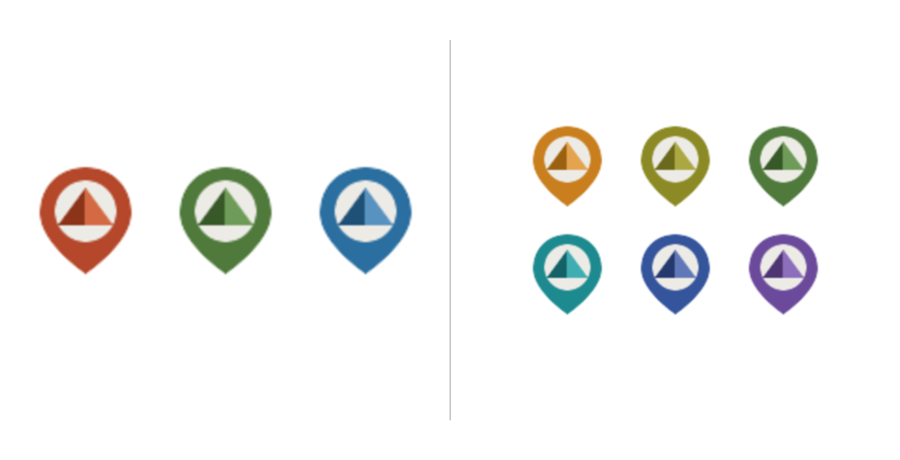
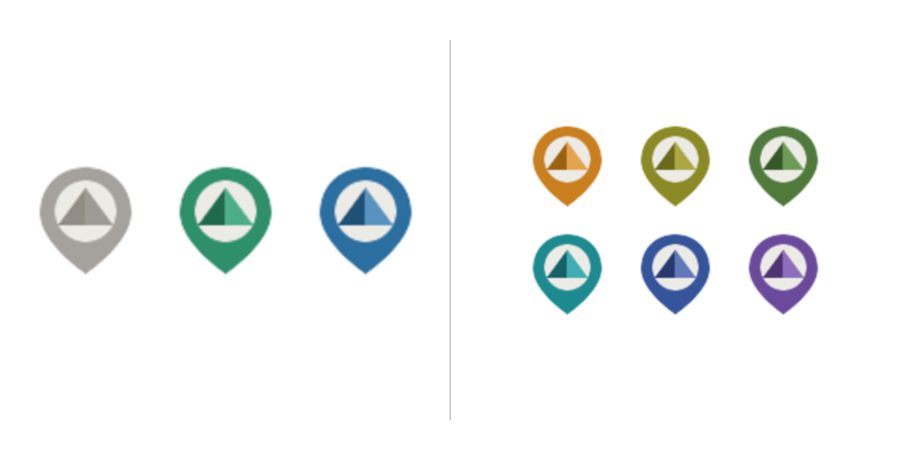
updated to have regions be default.

Changed region(s): [[0.0311, 0.3652, 0.1556, 0.6087], [0.1867, 0.3652, 0.3111, 0.6087]]

diff --git a/lib/widgets/popup_widgets/app_whats_new_dialog.dart b/lib/widgets/popup_widgets/app_whats_new_dialog.dart
@@ -1,4 +1,5 @@
 import 'package:flutter/material.dart';
+import 'package:two_eight_two/analytics/analytics.dart';
 import 'package:two_eight_two/extensions/extensions.dart';
 import 'package:two_eight_two/screens/settings/screens/screens.dart';
 import 'package:two_eight_two/widgets/widgets.dart';
@@ -39,7 +40,7 @@ class WhatsNewDialog extends StatelessWidget {
             const SizedBox(height: 20),
             // TODO: Update content each release
             Text(
-              'Simpler map pins',
+              'New: Classic map pins',
               style: Theme.of(context)
                   .textTheme
                   .titleMedium
@@ -47,8 +48,8 @@ class WhatsNewDialog extends StatelessWidget {
             ),
             const SizedBox(height: 8),
             Text(
-              "Munro pins now default to Classic: simple red, green and blue for at-a-glance progress. "
-              "Prefer the old multicoloured-by-region pins? Switch back any time in Settings → Map Style.",
+              "Prefer a simpler look? You can now switch to Classic pins: simple red, green and blue for "
+              "at-a-glance progress, instead of a colour per region. Find it any time in Settings → Map Style.",
               style: Theme.of(context).textTheme.bodyMedium,
             ),
             const SizedBox(height: 16),
@@ -69,14 +70,14 @@ class WhatsNewDialog extends StatelessWidget {
             ),
             const SizedBox(height: 24),
             PrimaryButton(
-              onPressed: () => Navigator.of(context).pop(),
+              onPressed: () => Navigator.of(context).pop(AnalyticsResponse.dismiss),
               child: const Text('Got it'),
             ),
             const SizedBox(height: 12),
             SecondaryButton(
               onPressed: () {
                 final navigator = Navigator.of(context);
-                navigator.pop();
+                navigator.pop(AnalyticsResponse.openSettings);
                 navigator.pushNamed(MapStyleSettingsScreen.route);
               },
               child: const Text('Open Settings'),

diff --git a/lib/screens/settings/screens/map_style_settings_screen.dart b/lib/screens/settings/screens/map_style_settings_screen.dart
@@ -35,17 +35,17 @@ class MapStyleSettingsScreen extends StatelessWidget {
               child: Column(
                 children: [
                   OptionListTile(
-                    title: 'Classic',
-                    subtitle: 'Simple red, green and blue pins for at-a-glance progress.',
-                    value: MapStyleOption.classic,
+                    title: 'Regions',
+                    subtitle: "Each of Scotland's munro regions gets its own colour.",
+                    value: MapStyleOption.regions,
                     groupValue: settingsState.mapStyleSetting,
                     onChanged: (value) => settingsState.setMapStyle(value),
                   ),
                   Divider(indent: 15, endIndent: 15),
                   OptionListTile(
-                    title: 'Regions',
-                    subtitle: "Each of Scotland's munro regions gets its own colour.",
-                    value: MapStyleOption.regions,
+                    title: 'Classic',
+                    subtitle: 'Simple red, green and blue pins for at-a-glance progress.',
+                    value: MapStyleOption.classic,
                     groupValue: settingsState.mapStyleSetting,
                     onChanged: (value) => settingsState.setMapStyle(value),
                   ),

diff --git a/lib/overlay_intent_coordinator.dart b/lib/overlay_intent_coordinator.dart
@@ -81,14 +81,23 @@ class OverlayIntentCoordinator extends StatelessWidget {
           },
         );
 
-        await showDialog(
+        final whatsNewResponse = await showDialog<String>(
           context: navCtx,
           builder: (BuildContext context) {
             return WhatsNewDialog(version: intent.version);
           },
-        ).then(
-          (_) => navCtx.read<AppFlagsRepository>().setShownWhatsNewDialog(intent.version),
         );
+
+        navCtx.read<Analytics>().track(
+          AnalyticsEvent.dialogResponse,
+          props: {
+            AnalyticsProp.dialogName: AnalyticsDialog.whatsNew,
+            AnalyticsProp.version: intent.version,
+            AnalyticsProp.response: whatsNewResponse ?? AnalyticsResponse.dismiss,
+          },
+        );
+
+        await navCtx.read<AppFlagsRepository>().setShownWhatsNewDialog(intent.version);
         return;
 
       case FeedbackSurveyIntent():

diff --git a/lib/models/appsettings_model.dart b/lib/models/appsettings_model.dart
@@ -23,7 +23,7 @@ class AppSettings {
         metricTemperature: true,
         defaultPostVisibility: Privacy.public,
         themeMode: ThemeModeOption.system,
-        mapStyle: MapStyleOption.classic,
+        mapStyle: MapStyleOption.regions,
       );
 
   Map<String, dynamic> toJSON() {
@@ -44,7 +44,7 @@ class AppSettings {
       metricTemperature: json[SettingsFields.metricTemperature] as bool? ?? true,
       defaultPostVisibility: json[SettingsFields.defaultPostVisibility] as String? ?? Privacy.public,
       themeMode: json[SettingsFields.themeMode] as String? ?? ThemeModeOption.system,
-      mapStyle: json[SettingsFields.mapStyle] as String? ?? MapStyleOption.classic,
+      mapStyle: json[SettingsFields.mapStyle] as String? ?? MapStyleOption.regions,
     );
   }
 

diff --git a/lib/screens/settings/state/settings_state.dart b/lib/screens/settings/state/settings_state.dart
@@ -26,7 +26,7 @@ class SettingsState extends ChangeNotifier {
   bool get metricTemperature => _appSettings?.metricTemperature ?? true;
   String get defaultPostVisibility => _appSettings?.defaultPostVisibility ?? Privacy.public;
   String get themeModeSetting => _appSettings?.themeMode ?? ThemeModeOption.system;
-  String get mapStyleSetting => _appSettings?.mapStyle ?? MapStyleOption.classic;
+  String get mapStyleSetting => _appSettings?.mapStyle ?? MapStyleOption.regions;
 
   set setError(Error error) {
     _status = SettingsStatus.error;

diff --git a/lib/repos/settings_repository.dart b/lib/repos/settings_repository.dart
@@ -13,7 +13,7 @@ class SettingsRepository {
       metricTemperature: _prefs.getBool(SettingsFields.metricTemperature) ?? true,
       defaultPostVisibility: _prefs.getString(SettingsFields.defaultPostVisibility) ?? Privacy.public,
       themeMode: _prefs.getString(SettingsFields.themeMode) ?? ThemeModeOption.system,
-      mapStyle: _prefs.getString(SettingsFields.mapStyle) ?? MapStyleOption.classic,
+      mapStyle: _prefs.getString(SettingsFields.mapStyle) ?? MapStyleOption.regions,
     );
   }
 

diff --git a/lib/analytics/analytics_base.dart b/lib/analytics/analytics_base.dart
@@ -200,6 +200,7 @@ class AnalyticsResponse {
   static const confirmed = 'confirmed';
   static const dismissed = 'dismissed';
   static const updateNow = 'update_now';
+  static const openSettings = 'open_settings';
 }
 
 class AnalyticsFeed {
